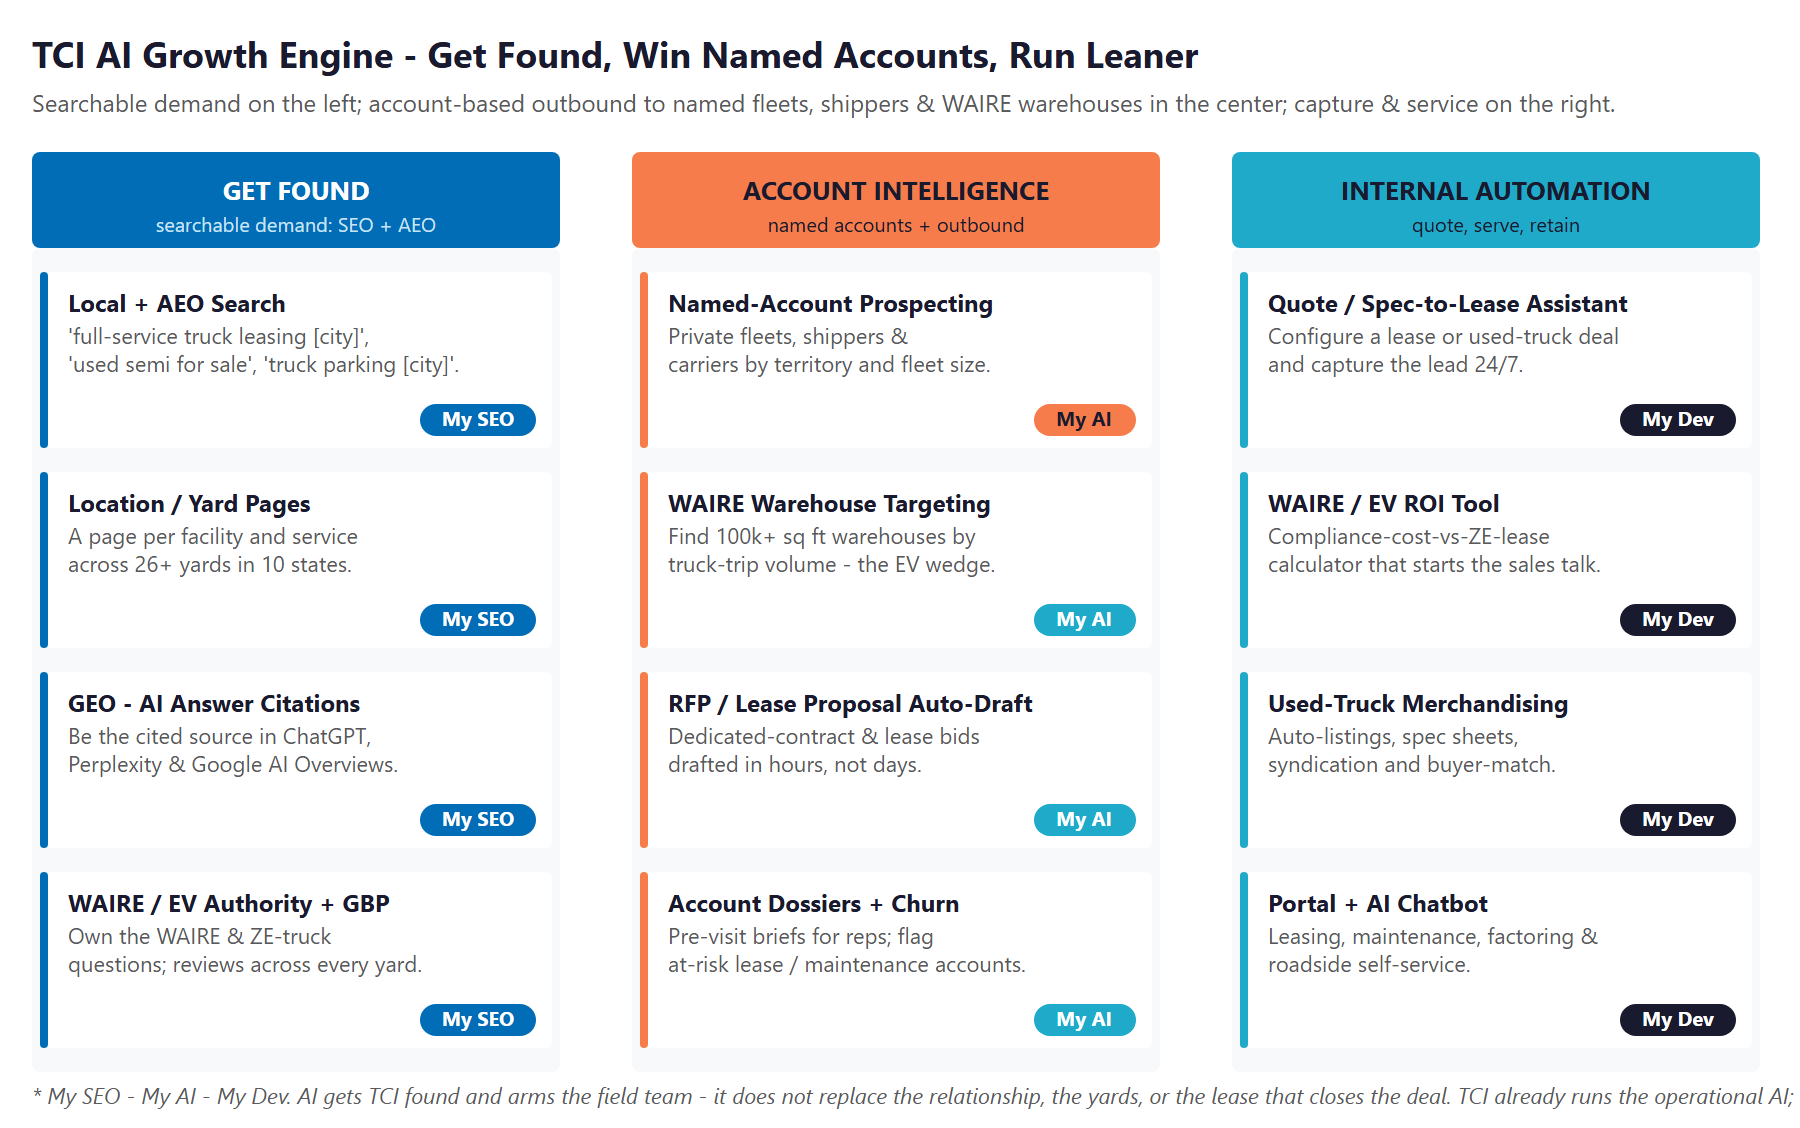
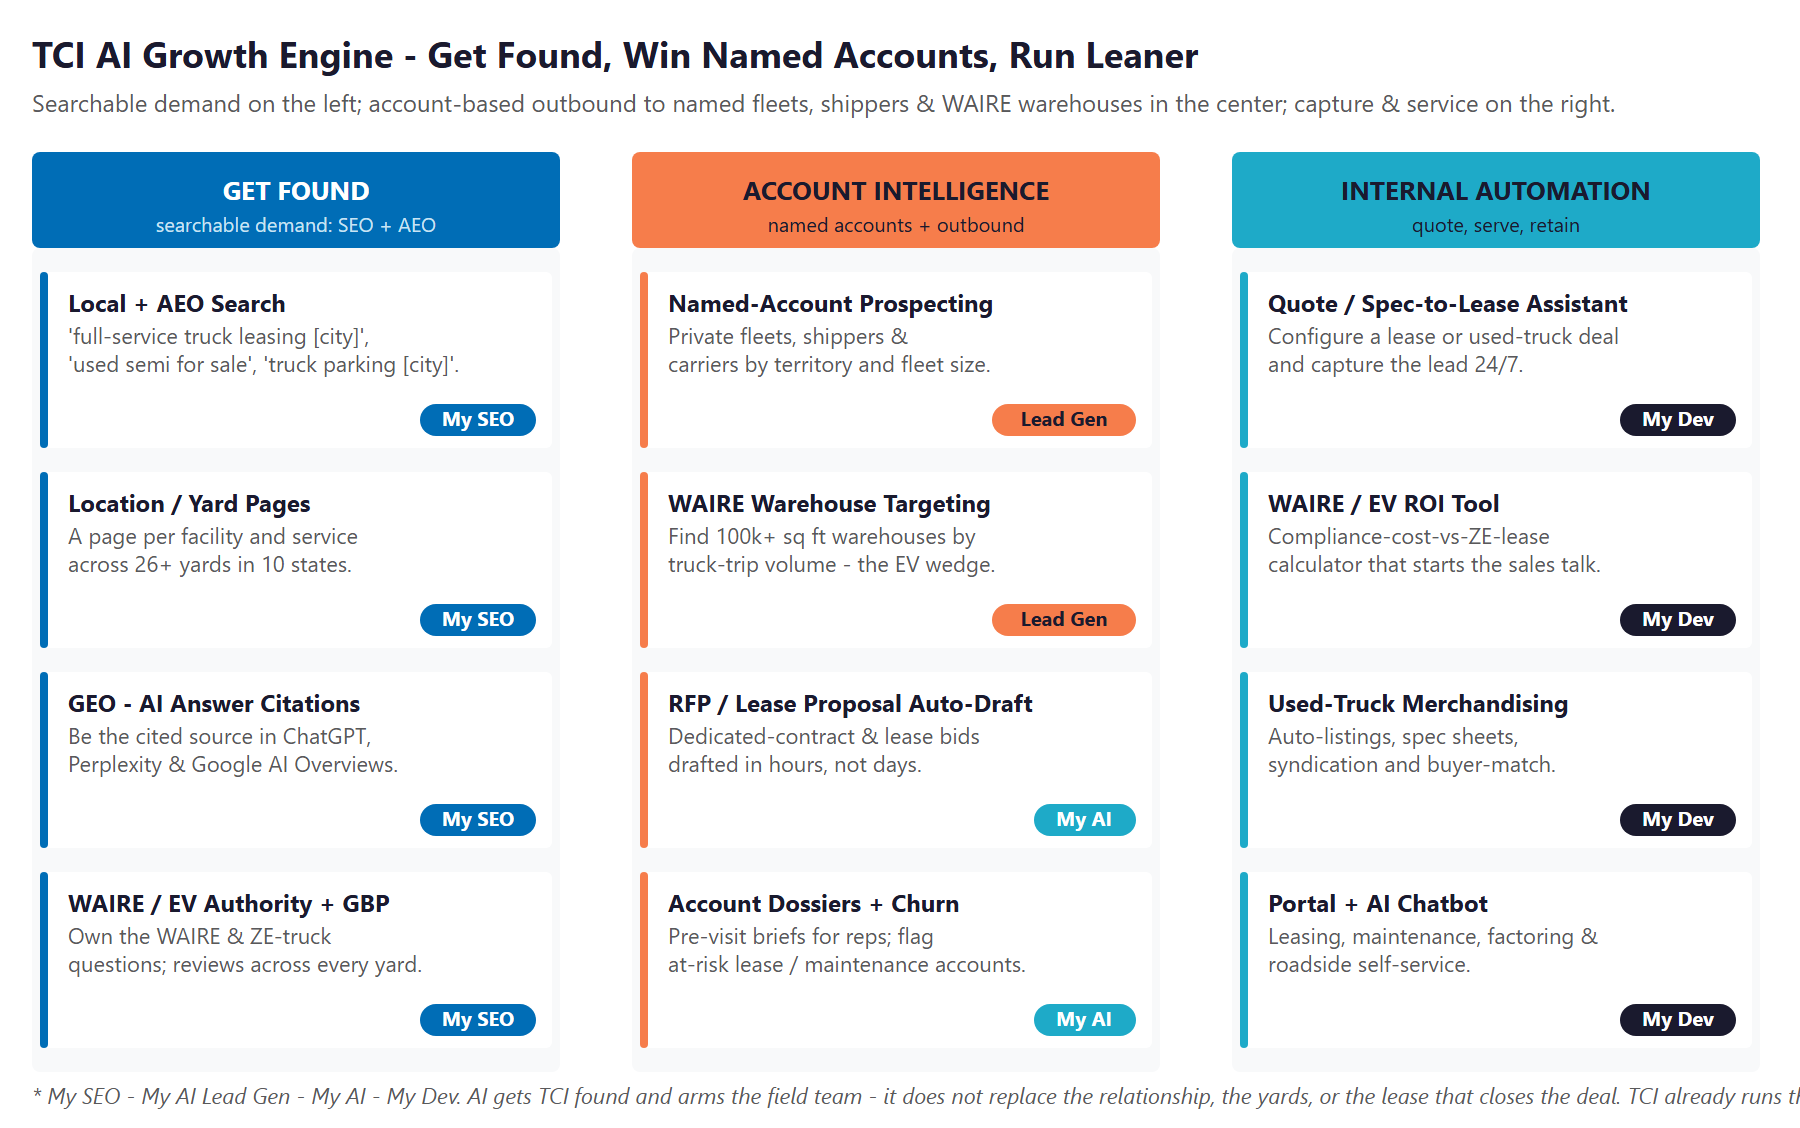
060126

Changed region(s): [[0.1244, 0.9619, 1.0, 0.9929], [0.5289, 0.5275, 0.6533, 0.5895], [0.5289, 0.3413, 0.6222, 0.4034]]

diff --git a/Clients/TCI/build-tci-report.js b/Clients/TCI/build-tci-report.js
@@ -731,7 +731,7 @@ docChildren.push(
   capabilityBox(
     'Proven Build 3 — Account-Based Intelligence & Outbound',
     'Technijian operates a multi-agent AI lead-generation system for a luxury home builder that watches seven layers of public-records signals across ten permit jurisdictions and 60-plus review committees — replacing 15–20 hours a week of manual portal-reading and producing 24 enriched, scored, contact-ready leads in a single 75-minute production run, months before a competitor sees the same opportunity.',
-    'The same public-records-harvesting motion points straight at TCI’s growth: identify WAIRE-obligated warehouses by facility and truck-trip data, fleets at a lease-versus-own inflection, expiring contracts, and new distribution-center permits — each enriched into a scored, dossier-ready target for the rep who owns the relationship.'
+    'The same public-records-harvesting motion points straight at TCI’s growth: identify WAIRE-obligated warehouses by facility and truck-trip data, fleets at a lease-versus-own inflection, expiring contracts, and new distribution-center permits — each enriched into a scored, dossier-ready target for the rep who owns the relationship. It is delivered as My AI Lead Gen, a productized service with published tiers (see Section 11).'
   ),
   spacer(140),
   capabilityBox(
@@ -785,8 +785,8 @@ docChildren.push(
       ['Get Found', 'Local + AEO search', 'Rank for "[service] + [city]" and answer-engine queries', 'Organic leads / mo', 'My SEO'],
       ['Get Found', 'Location / yard pages', 'A page per yard and service across the 10-state footprint', 'Local rankings', 'My SEO'],
       ['Get Found', 'WAIRE / EV authority + GBP', 'WAIRE / EV / leasing content hub + reviews per yard', 'Citations, reviews', 'My SEO'],
-      ['Account Intel', 'Named-account prospecting', 'Private fleets and shippers by territory and fleet size', 'Qualified accounts / mo', 'My AI'],
-      ['Account Intel', 'WAIRE-warehouse targeting', 'Find 100k+ sq ft warehouses by truck-trip volume — the EV wedge', 'Targeted warehouses', 'My AI'],
+      ['Account Intel', 'Named-account prospecting', 'Private fleets and shippers by territory and fleet size', 'Qualified accounts / mo', 'My AI Lead Gen'],
+      ['Account Intel', 'WAIRE-warehouse targeting', 'Find 100k+ sq ft warehouses by truck-trip volume — the EV wedge', 'Targeted warehouses', 'My AI Lead Gen'],
       ['Account Intel', 'RFP / lease-proposal auto-draft', 'Draft dedicated-contract and lease bids in hours', 'Bids submitted, win rate', 'My AI'],
       ['Account Intel', 'Dossiers + churn model', 'Pre-visit briefs for reps; flag at-risk lease/maintenance accounts', 'Meetings, retained accounts', 'My AI'],
       ['Run Leaner', 'Quote / spec-to-lease assistant', 'Configure a lease or used-truck deal and capture the lead 24/7', 'Quotes, capture rate', 'My Dev'],
@@ -813,61 +813,60 @@ docChildren.push(
   spacer(100),
   p('This section is deliberately honest about numbers. Where Technijian has a published price, it is shown as a firm price. Where an investment depends on the scope of a custom build, the document shows the real rate-card basis and states plainly that the figure is set in discovery — it does not invent a total to fill a cell. And the return is framed as the value at stake across TCI’s growth levers, with the dollar figures calibrated once discovery establishes TCI’s real per-deal economics. That is the standard TCI should expect from a partner: no numbers we cannot ground.'),
   spacer(140),
-  subHeader('Phase 1 — Entry Program (Published Pricing)'),
-  p('The program starts with the one part that needs no custom build and carries a firm, published price: the search and answer-engine foundation. It is a 12-month engagement with unlimited monthly service hours.'),
+  subHeader('Phase 1 — Published Services (Firm Monthly Pricing)'),
+  p('Two of the program’s core engines carry firm, published pricing and need no custom build to start: the search and answer-engine foundation (My SEO), and the account-intelligence engine that finds named fleets, shippers, and WAIRE-obligated warehouses (My AI Lead Gen). Both are productized services with published rates.'),
   buildTable(
     [
       { label: 'Service', weight: 3 },
       { label: 'Scope', weight: 4 },
       { label: 'Monthly', weight: 1.5, align: AlignmentType.CENTER },
-      { label: 'Y1 Total', weight: 1.5, align: AlignmentType.CENTER },
+      { label: 'Y1', weight: 1.5, align: AlignmentType.CENTER },
     ],
     [
       ['My SEO — Tier 5 (incl. Tiers 1–4)', 'Custom site + hosting, on/off-page SEO, 5 keyword blogs/mo, and video — the multi-location organic foundation', { text: '$1,500', align: AlignmentType.CENTER }, { text: '$18,000', align: AlignmentType.CENTER }],
       ['+ AI Search Optimization', 'Answer-engine (AEO/GEO) optimization for ChatGPT, Perplexity, and Google AI Overviews', { text: '$200', align: AlignmentType.CENTER }, { text: '$2,400', align: AlignmentType.CENTER }],
       ['+ PR Releases (quarterly)', '300+ live placements; FOX / ABC / NBC affiliate coverage', { text: '$150', align: AlignmentType.CENTER }, { text: '$1,800', align: AlignmentType.CENTER }],
       ['+ Content Syndication', 'Distribution to 250+ websites', { text: '$200', align: AlignmentType.CENTER }, { text: '$2,400', align: AlignmentType.CENTER }],
-      [{ text: 'Entry Program Subtotal (published)', bold: true }, { text: '12-month commitment, unlimited service hours', bold: true }, { text: '$2,050/mo', bold: true, align: AlignmentType.CENTER }, { text: '~$24,600', bold: true, color: CORE_BLUE, align: AlignmentType.CENTER }],
+      [{ text: 'My AI Lead Gen — Professional', bold: true }, '3 vertical pipelines (fleets, shippers, WAIRE warehouses), daily refresh, 2,500 leads/mo (+ $5,000 one-time setup)', { text: '$3,499', bold: true, align: AlignmentType.CENTER }, { text: '~$46,988', bold: true, align: AlignmentType.CENTER }],
+      [{ text: 'PUBLISHED RECURRING PROGRAM', bold: true }, { text: 'Both engines — month-to-month (annual plans save 17% + waive setup → ≈ $59,590)', bold: true }, { text: '$5,549/mo', bold: true, align: AlignmentType.CENTER }, { text: '~$71,588', bold: true, color: CORE_BLUE, align: AlignmentType.CENTER }],
     ],
   ),
   spacer(60),
-  p('Optional at entry: Digital Marketing (paid-ads) management runs $200/mo (Standard tier) plus a $100 one-time setup per brand, with media spend billed separately. An Executive AI Workshop and AI Readiness Assessment is a fixed-scope engagement; Technijian strategic-planning engagements run $8,500–$25,000 on the 2026 rate card, with the exact scope and price confirmed in discovery.', { italics: true, size: 18 }),
+  p('My AI Lead Gen tiers (published): Starter $1,499/mo (1 vertical, 500 leads/mo, $2,500 setup) · Professional $3,499/mo (“Most Popular” — the multi-vertical fit for TCI) · Enterprise $6,999/mo (unlimited custom sources, 10K+ leads, $15,000 setup). A 2-week paid pilot ($995, credited to month one) de-risks the start; annual plans save 17% and waive setup. Third-party data/API costs (e.g., ATTOM, Apollo, Claude) pass through at cost. Optional: Digital Marketing (paid-ads) management at $200/mo (Standard) + $100 setup per brand, media spend separate.', { italics: true, size: 18 }),
   spacer(160),
-  subHeader('Phase 2 — Expansion (Scoped in Discovery)'),
-  p('The custom builds and account-intelligence work are where the engine is built. Their cost depends entirely on scope — how many yards, how many integrations, how deep the tooling — so rather than print an invented total, the table shows the real rate-card basis and the work to be scoped into a fixed-price Statement of Work after discovery.'),
+  subHeader('Phase 2 — Custom Build & Advisory (Scoped in Discovery)'),
+  p('The custom build and ongoing advisory are scoped to TCI’s actual needs — how many yards, how many integrations, how deep the tooling — so rather than print an invented total, the table shows the real 2026 US-led rate basis and the work to be scoped into a fixed-price Statement of Work. The advisor and workshop figures are planning estimates, confirmed at discovery.'),
   buildTable(
     [
       { label: 'Service', weight: 2.7 },
-      { label: 'Scope', weight: 3.6 },
-      { label: 'Basis (2026 Rate Card)', weight: 2.4 },
-      { label: 'Investment', weight: 2 },
+      { label: 'Scope', weight: 3.7 },
+      { label: 'Basis (2026 US-Led Rate)', weight: 2.5 },
+      { label: 'Investment', weight: 1.9 },
     ],
     [
-      ['My Dev — Custom AI & app build', 'Quote/spec-to-lease assistant, WAIRE/EV ROI tool, customer portal + AI chatbot, used-truck merchandising', 'AI eng $185–$275/hr; full-stack $145–$210/hr', { text: 'Scoped in discovery → fixed-scope SOW', bold: true, color: CORE_ORANGE }],
-      ['My AI — Account intelligence & outbound', 'Named fleet/shipper + WAIRE-warehouse targeting, dossiers, RFP/lease-proposal automation', 'My AI engagement', { text: 'Scoped in discovery', bold: true, color: CORE_ORANGE }],
-      ['My AI — Fractional AI Advisor', 'Program leadership, model governance, implementation QA', 'Retainer $1,500–$3,500/mo', { text: 'Tier set at discovery', bold: true, color: CORE_ORANGE }],
+      ['My Dev — Custom AI & app build', 'Quote/spec-to-lease assistant, WAIRE/EV ROI tool, customer portal + AI chatbot, used-truck merchandising', 'US development $150/hr ($125/hr on a contract cycle)', { text: 'Scoped → fixed-scope SOW', bold: true, color: CORE_ORANGE }],
+      ['My AI — Fractional AI Advisor', 'Program leadership, model governance, implementation QA', 'Monthly retainer (estimate ~$2,000/mo)', { text: 'Confirmed at discovery', bold: true, color: CORE_ORANGE }],
+      ['My AI — Executive Workshop + AI Readiness', 'Leadership alignment and roadmap (one-time)', 'Fixed-scope (estimate ~$5,000)', { text: 'Confirmed at discovery', bold: true, color: CORE_ORANGE }],
       ['My Dev — Managed App Services', 'Hosting, monitoring, and optimization of the build', 'Monthly managed service', { text: 'Scoped once build is sized', bold: true, color: CORE_ORANGE }],
     ],
   ),
   spacer(160),
-  subHeader('Transparent US Labor Rates (2026)'),
-  p('So project and ad-hoc work carries no surprises, here are the blended, US-led rates the expansion draws from. These are real rate-card figures; a fixed-scope build converts them into a single agreed price.'),
+  subHeader('Transparent US-Led Rates (2026)'),
+  p('So project and ad-hoc work carries no surprises, here are the actual 2026 US-led rates the custom build and advisory draw from. A fixed-scope build converts these into a single agreed price.'),
   buildTable(
     [
-      { label: 'Work', weight: 4 },
-      { label: 'Unit', weight: 2, align: AlignmentType.CENTER },
-      { label: 'US Rate (2026)', weight: 2, align: AlignmentType.CENTER },
+      { label: 'Role', weight: 3.4 },
+      { label: 'Normal', weight: 1.6, align: AlignmentType.CENTER },
+      { label: 'After-Hours', weight: 1.6, align: AlignmentType.CENTER },
+      { label: 'Contracted (Cycle)', weight: 2, align: AlignmentType.CENTER },
     ],
     [
-      ['Custom AI agent development', { text: 'per hour', align: AlignmentType.CENTER }, { text: '$185–$275', align: AlignmentType.CENTER }],
-      ['Full-stack application development', { text: 'per hour', align: AlignmentType.CENTER }, { text: '$145–$210', align: AlignmentType.CENTER }],
-      ['Planned project / engineering work', { text: 'per hour', align: AlignmentType.CENTER }, { text: '$145–$195', align: AlignmentType.CENTER }],
-      ['Strategic AI / planning engagement', { text: 'per engagement', align: AlignmentType.CENTER }, { text: '$8,500–$25,000', align: AlignmentType.CENTER }],
-      ['Fractional AI Advisor', { text: 'per month', align: AlignmentType.CENTER }, { text: '$1,500–$3,500', align: AlignmentType.CENTER }],
+      ['US Engineering / Development', { text: '$150/hr', align: AlignmentType.CENTER }, { text: '$250/hr', align: AlignmentType.CENTER }, { text: '$125/hr', align: AlignmentType.CENTER }],
+      ['CTO / vCIO Advisory', { text: '$250/hr', align: AlignmentType.CENTER }, { text: '$350/hr', align: AlignmentType.CENTER }, { text: '$225/hr', align: AlignmentType.CENTER }],
     ],
   ),
   spacer(60),
-  p('Rates are blended US-led pricing. A 3% annual escalator and Net 30 terms apply, disclosed up front in any Statement of Work.', { italics: true, size: 18 }),
+  p('Blended US-led rates; “Contracted” applies under a 3-, 6-, or 12-month cycle commitment. On-site work has a 2-hour minimum and no trip charges; emergency/critical work bills at the after-hours rate with a 1-hour minimum. A 3% annual escalator and Net 30 terms apply, disclosed up front in any Statement of Work.', { italics: true, size: 18 }),
   spacer(160),
   subHeader('The Return: Value at Stake'),
   p('Because TCI’s internal numbers (average lease value, close rate, used-truck margin, WAIRE pipeline) were not available for this draft, this blueprint does not print an ROI multiple it cannot stand behind. Instead it names the levers the program moves and the unit each is measured in. The dollar value of each is set in discovery and built into a calibrated ROI model.'),
@@ -889,9 +888,9 @@ docChildren.push(
   calloutBox(
     'How to Read the Money',
     [
-      'The entry program is a known, published investment of about $24,600 in Year 1 — the search and answer-engine foundation, with no large build required to start.',
-      'The custom build and account-intelligence work are scoped in discovery and delivered as a fixed-price Statement of Work, priced from the published rate card above — never an invented number.',
-      'Within five business days of a 30-minute discovery call (Section 14), Technijian returns a calibrated ROI model and a fixed-scope SOW built on TCI’s real per-deal economics. That is the right sequence: prove the foundation, then size the engine.',
+      'The published recurring program — the search foundation plus account intelligence — is a known investment of about $5,549/mo (≈ $71,588 in Year 1 month-to-month, or ≈ $59,590 on annual plans, which waive setup). No large custom build is required to start.',
+      'The custom build and advisory are scoped in discovery into a fixed-price Statement of Work, priced from the published 2026 US-led rates above — never an invented number.',
+      'Within five business days of a 30-minute discovery call (Section 14), Technijian returns a calibrated ROI model and a fixed-scope SOW built on TCI’s real per-deal economics. That is the right sequence: prove the published engines, then size the build.',
     ],
     CORE_BLUE
   ),
@@ -1042,9 +1041,9 @@ docChildren.push(
     [{ label: 'Service', weight: 2 }, { label: 'What It Delivers for TCI', weight: 5 }],
     [
       ['My SEO', 'Local and answer-engine SEO — ranking in Google and getting cited by AI assistants — plus per-yard location pages and the WAIRE / EV content hub that make TCI findable across its markets'],
-      ['My AI', 'AI strategy and builds — account intelligence, WAIRE-warehouse targeting, RFP and lease-proposal automation, and churn intelligence, with governance and security throughout'],
+      ['My AI Lead Gen', 'Account intelligence and outbound — named fleets and shippers plus WAIRE-obligated warehouses, harvested from public data, enriched, scored, and dossier-ready for the sales team'],
+      ['My AI', 'AI strategy and builds — RFP and lease-proposal automation, churn intelligence, and the Fractional AI Advisor, with governance and security throughout'],
       ['My Dev', 'Custom, AI-native builds — the quote/spec-to-lease assistant, WAIRE/EV ROI tool, used-truck merchandising, and the AI-assisted customer portal'],
-      ['My IT & Security', 'The managed IT, cybersecurity, and cloud foundation that runs underneath the growth engine — available as TCI’s needs grow'],
     ],
   ),
   spacer(200),
@@ -1070,7 +1069,7 @@ docChildren.push(
   p('3. Competitors — Ryder System (ryder.com, incl. WAIRE guidance), Penske Truck Leasing, Idealease, Enterprise Fleet Management, NationaLease; digital freight brokers (C.H. Robinson, Uber Freight, DAT); EV / charging vendors (Xos, Orange EV)', { size: 20 }),
   p('4. Regulatory — South Coast AQMD Rule 2305 / WAIRE Program (aqmd.gov FAQs; NV5, Lazer Logistics, Xos, Orange EV explainers); CARB Advanced Clean Fleets and Advanced Clean Trucks; CARB Clean Truck Check; US DOT / FMCSA', { size: 20 }),
   p('5. Industry — ACT Research (2026 used-truck outlook; Class 8 retail values); American Trucking Associations driver-shortage estimates; 2025–26 freight-market and carrier-exit analyses; US truck leasing & rental market size and CAGR; freight-factoring rate benchmarks', { size: 20 }),
-  p('6. Technijian pricing — Services/My SEO published tiers and add-ons; technijian-pricing 2026 rate card (custom AI development $185–$275/hr; full-stack $145–$210/hr; project work $145–$195/hr; strategic engagement $8,500–$25,000; Fractional Advisor / vCIO $1,500–$3,500/mo); Services/My AI Proven Results', { size: 20 }),
+  p('6. Technijian pricing — published service collateral: My SEO tiers + add-ons (Services/My SEO) and My AI Lead Gen tiers (Starter $1,499 / Professional $3,499 / Enterprise $6,999 per month + setup; Services/My AI Lead Gen); 2026 US-led labor rates (US Engineering/Development $150/$250/$125 per hour normal/after-hours/contracted; CTO/vCIO advisory $250/$350/$225); Services/My AI Proven Results. My Dev custom builds and the Fractional AI Advisor/Workshop are scoped at discovery (advisor/workshop figures shown are planning estimates).', { size: 20 }),
 );
 
 // =====================================================================

diff --git a/Clients/TCI/build-tci-summary.js b/Clients/TCI/build-tci-summary.js
@@ -182,7 +182,7 @@ docChildren.push(
   spacer(120),
   calloutBox('Get found', 'Local and answer-engine search across 26+ yards: a page per facility and service, and authority content that owns the WAIRE, EV-truck, leasing, and used-truck questions buyers ask in Google and AI answers.', TEAL),
   spacer(120),
-  calloutBox('Win named accounts', 'The same public-records account-intelligence motion already in production for a Technijian client — 24 contact-ready leads in a single 75-minute run — pointed at WAIRE-obligated warehouses and named fleets, with RFP and lease-proposal automation behind it.', CORE_ORANGE),
+  calloutBox('Win named accounts', 'The same public-records account-intelligence motion already in production for a Technijian client — 24 contact-ready leads in a single 75-minute run — pointed at WAIRE-obligated warehouses and named fleets. Delivered as My AI Lead Gen (published tiers), with RFP and lease-proposal automation behind it.', CORE_ORANGE),
   spacer(120),
   calloutBox('Run leaner', 'A quote / spec-to-lease assistant, a WAIRE/EV ROI tool that turns the regulation into a sales conversation, used-truck merchandising, and an AI-assisted portal across leasing, maintenance, factoring, and roadside.', CORE_BLUE),
 );
@@ -191,29 +191,31 @@ docChildren.push(
 docChildren.push(
   ...sectionHeader('The Program', CORE_BLUE, '03'),
   spacer(120),
-  p('The program is built land-and-expand: a small, published entry that proves the lift, then an expansion scoped at discovery once it does. We are deliberate about money — only the published price is stated as firm; the build is priced from the rate card and scoped into a fixed-price Statement of Work, never an invented number.'),
+  p('The program is built land-and-expand on two published engines, then a custom build scoped at discovery. We are deliberate about money — only published prices are stated as firm (My SEO and My AI Lead Gen); the build is priced from the real 2026 US-led rates and scoped into a fixed-price Statement of Work, never an invented number.'),
   spacer(80),
   buildTable(
     [
-      { label: 'Entry Program (published)', weight: 3.2 },
-      { label: 'Scope', weight: 4.2 },
-      { label: 'Y1', weight: 1.6, align: AlignmentType.RIGHT },
+      { label: 'Published Recurring Program', weight: 3.2 },
+      { label: 'Scope', weight: 4.0 },
+      { label: 'Monthly', weight: 1.4, align: AlignmentType.RIGHT },
+      { label: 'Y1', weight: 1.4, align: AlignmentType.RIGHT },
     ],
     [
-      ['My SEO — Tier 5 + AEO / PR / Syndication', 'Multi-location local + answer-engine search foundation; 12-mo, unlimited hours', { text: '~$24,600', align: AlignmentType.RIGHT }],
-      [{ text: 'ENTRY PROGRAM (Y1)', bold: true }, { text: 'Prove the search + capture lift, no large build to start', bold: true }, { text: '$2,050/mo', bold: true, color: CORE_BLUE, align: AlignmentType.RIGHT }],
+      ['My SEO — Tier 5 + AEO / PR / Syndication', 'Multi-location local + answer-engine search foundation; 12-mo, unlimited hours', { text: '$2,050', align: AlignmentType.RIGHT }, { text: '~$24,600', align: AlignmentType.RIGHT }],
+      ['My AI Lead Gen — Professional', '3 vertical pipelines (fleets, shippers, WAIRE warehouses), 2,500 leads/mo (+$5,000 setup)', { text: '$3,499', align: AlignmentType.RIGHT }, { text: '~$46,988', align: AlignmentType.RIGHT }],
+      [{ text: 'PUBLISHED RECURRING (Y1)', bold: true }, { text: 'Annual plans save 17% + waive setup (≈ $59,590)', bold: true }, { text: '$5,549', bold: true, color: CORE_BLUE, align: AlignmentType.RIGHT }, { text: '~$71,588', bold: true, color: CORE_BLUE, align: AlignmentType.RIGHT }],
     ],
   ),
   spacer(120),
   buildTable(
     [
-      { label: 'Expansion (scoped in discovery)', weight: 3.4 },
-      { label: 'Basis — 2026 rate card', weight: 3.6 },
+      { label: 'Custom Build & Advisory (scoped in discovery)', weight: 3.6 },
+      { label: 'Basis — 2026 US-led rate', weight: 3.4 },
       { label: 'Investment', weight: 2.4, align: AlignmentType.RIGHT },
     ],
     [
-      ['Custom AI & app build (quote-to-lease, WAIRE/EV ROI tool, portal, used-truck)', 'AI eng $185–$275/hr; full-stack $145–$210/hr', { text: 'Fixed-scope SOW', color: CORE_ORANGE, align: AlignmentType.RIGHT }],
-      ['Account intelligence & outbound + Fractional AI Advisor', 'My AI engagement; advisor $1,500–$3,500/mo', { text: 'Set at discovery', color: CORE_ORANGE, align: AlignmentType.RIGHT }],
+      ['Custom AI & app build (quote-to-lease, WAIRE/EV ROI tool, portal, used-truck)', 'US development $150/hr ($125/hr contracted)', { text: 'Fixed-scope SOW', color: CORE_ORANGE, align: AlignmentType.RIGHT }],
+      ['Fractional AI Advisor + Executive Workshop', 'Estimates: ~$2,000/mo + ~$5,000 one-time', { text: 'Confirmed at discovery', color: CORE_ORANGE, align: AlignmentType.RIGHT }],
     ],
   ),
   spacer(120),

diff --git a/Clients/TCI/build-tci-brief.py b/Clients/TCI/build-tci-brief.py
@@ -72,13 +72,14 @@ ul {{ margin:2px 0 0 15px; }} li {{ margin-bottom:2px; }}
   </div>
 
   <div class="sec t">
-    <h2>The program &mdash; land and expand, priced honestly</h2>
+    <h2>The program &mdash; two published engines, then a scoped build</h2>
     <table>
-      <tr><th>Entry (published — the easy yes)</th><th>Scope</th><th class="r">Y1</th></tr>
-      <tr><td><b>My SEO — Tier 5 + AEO / PR / Syndication</b></td><td>Multi-location local + answer-engine search foundation; 12-month, unlimited service hours</td><td class="r">~$24,600</td></tr>
-      <tr><td><b>ENTRY PROGRAM (Y1)</b></td><td><b>Prove the search + capture lift, no large build to start</b></td><td class="r"><b>$2,050/mo</b></td></tr>
+      <tr><th>Published recurring (firm pricing)</th><th>Scope</th><th class="r">Monthly</th><th class="r">Y1</th></tr>
+      <tr><td><b>My SEO — Tier 5 + AEO / PR / Syndication</b></td><td>Multi-location local + answer-engine search foundation; 12-mo, unlimited hours</td><td class="r">$2,050</td><td class="r">~$24,600</td></tr>
+      <tr><td><b>My AI Lead Gen — Professional</b></td><td>3 vertical pipelines (fleets, shippers, WAIRE warehouses), 2,500 leads/mo (+$5,000 setup)</td><td class="r">$3,499</td><td class="r">~$46,988</td></tr>
+      <tr><td><b>PUBLISHED RECURRING</b></td><td><b>Both engines &middot; annual plans save 17% + waive setup (&asymp;$59,590)</b></td><td class="r"><b>$5,549</b></td><td class="r"><b>~$71,588</b></td></tr>
     </table>
-    <p style="margin-top:5px;">The expansion — the custom build (quote-to-lease assistant, WAIRE/EV ROI tool, AI-assisted portal, used-truck merchandising), account intelligence, and a Fractional AI Advisor — is priced from the published 2026 rate card (AI engineering $185&ndash;$275/hr; advisor $1,500&ndash;$3,500/mo) and scoped into a fixed-price Statement of Work at discovery. We don't quote numbers we can't ground: the calibrated ROI model comes back within five business days of a discovery call, built on TCI's real per-deal economics.</p>
+    <p style="margin-top:5px;">The custom build — quote-to-lease assistant, WAIRE/EV ROI tool, AI-assisted portal, used-truck merchandising — plus a Fractional AI Advisor (est. ~$2,000/mo) and Executive Workshop (est. ~$5,000) are priced from the real 2026 US-led rates (development <b>$150/hr</b>, <b>$125/hr</b> on a contract cycle) and scoped into a fixed-price Statement of Work at discovery. We don't quote numbers we can't ground: the calibrated ROI model comes back within five business days of a discovery call, built on TCI's real per-deal economics.</p>
   </div>
 
   <div class="ask">

diff --git a/Clients/TCI/generate-diagrams.py b/Clients/TCI/generate-diagrams.py
@@ -308,9 +308,9 @@ def build_arch_svg():
     )
     core = (
         arch_card(320, 136, 256, 88, ORANGE, "Named-Account Prospecting",
-                  "Private fleets, shippers & carriers by territory and fleet size.", "My AI", ORANGE)
+                  "Private fleets, shippers & carriers by territory and fleet size.", "Lead Gen", ORANGE)
         + arch_card(320, 236, 256, 88, ORANGE, "WAIRE Warehouse Targeting",
-                    "Find 100k+ sq ft warehouses by truck-trip volume - the EV wedge.", "My AI", TEAL)
+                    "Find 100k+ sq ft warehouses by truck-trip volume - the EV wedge.", "Lead Gen", ORANGE)
         + arch_card(320, 336, 256, 88, ORANGE, "RFP / Lease Proposal Auto-Draft",
                     "Dedicated-contract & lease bids drafted in hours, not days.", "My AI", TEAL)
         + arch_card(320, 436, 256, 88, ORANGE, "Account Dossiers + Churn",
@@ -330,7 +330,7 @@ def build_arch_svg():
   <text x="16" y="34" font-family="Segoe UI,Arial" font-size="18" font-weight="700" fill="{DARK}">TCI AI Growth Engine - Get Found, Win Named Accounts, Run Leaner</text>
   <text x="16" y="56" font-family="Segoe UI,Arial" font-size="12" fill="{GREY}">Searchable demand on the left; account-based outbound to named fleets, shippers &amp; WAIRE warehouses in the center; capture &amp; service on the right.</text>"""
     note = f"""
-  <text x="16" y="552" font-family="Segoe UI,Arial" font-size="11" fill="{GREY}" font-style="italic">* My SEO - My AI - My Dev. AI gets TCI found and arms the field team - it does not replace the relationship, the yards, or the lease that closes the deal. TCI already runs the operational AI; this adds the commercial layer.</text>"""
+  <text x="16" y="552" font-family="Segoe UI,Arial" font-size="11" fill="{GREY}" font-style="italic">* My SEO - My AI Lead Gen - My AI - My Dev. AI gets TCI found and arms the field team - it does not replace the relationship, the yards, or the lease that closes the deal. TCI already runs the operational AI; this adds the commercial layer.</text>"""
     return f"""<svg xmlns="http://www.w3.org/2000/svg" viewBox="0 0 900 560" width="900" height="560" role="img">
   {title}{headers}{bg}{inbound}{core}{outbound}{note}
 </svg>"""

diff --git a/Clients/TCI/_research.md b/Clients/TCI/_research.md
@@ -29,12 +29,17 @@ This distinction is a trust signal — it shows we actually looked.
 ### D. TRUTHFUL PRICING & ROI — explicit client instruction (Ravi, 2026-06-01). NON-NEGOTIABLE.
 > "make sure you are truthful on prices and roi and dont make things up" + "If you dont have a price then say we will do discovery and then create proper pricing."
 
-Rules for this deliverable (more conservative than SCF/CBI, which printed invented totals — do NOT repeat that here):
-1. **Only My SEO has published prices** (`Services/My SEO/assets/my-seo-content.txt`): Tier 1 $500 → Tier 5 $1,500/mo (cumulative, 12-mo commitment, unlimited hours); add-ons AI Search Optimization $200/mo, PR Releases $150/mo, Content Syndication $200/mo; DMA (paid-ads mgmt) Essential/Standard/Aggressive $100/$200/$300/mo + $100/brand setup (media spend not included). These are the ONLY firm monthly numbers in the document.
-2. **Everything else = rate-card RANGES** from the `technijian-pricing` catalog (real), with the **project total scoped in discovery → proper fixed-scope pricing**. Real ranges to cite: Custom AI agent dev (AI-CUSTOM) **$185–$275/hr**; Full-stack dev (DEV-FULLSTACK) **$145–$210/hr**; Project IT work (MIT-PROJECT) **$145–$195/hr**; Strategic AI/IT planning engagement (CON-STRAT) **$8,500–$25,000**; vCIO / Fractional Advisor retainer (MIT-VCIO) **$1,500–$3,500/mo**.
-3. **Do NOT print** the "My AI Lead Gen $1,499 / $3,499 / $6,999" tiers — they are NOT in the authoritative `technijian-pricing` catalog. Account intelligence / outbound is delivered via My AI and is **scoped in discovery**.
-4. **No invented project totals, no fabricated ROI ratio.** ROI is a **value-at-stake** model: name each growth lever, its unit of measure, and "set at discovery" for the dollar value. The ONE firm number is the My SEO entry (~$24,600/yr at Tier 5 + 3 add-ons). State plainly that the full ROI model + fixed-scope SOW are delivered after a discovery call calibrates per-deal economics and build scope.
-5. Single **blended US-led rate**; never expose India cost basis. 3% annual escalator + Net 30 disclosed. "Investment" not "cost." Per `technijian-pricing` R1/R9/R11 and `reference_technijian_labor_rates`.
+> **⚠️ CORRECTED 2026-06-01 (Ravi: "your numbers are not factual… your rates are all wrong").** First pass wrongly priced from the `technijian-pricing` skill's generic DEFAULT-rate catalog and wrongly treated My AI Lead Gen as unpriced. REAL prices live in each service's own One-Pager/Brochure collateral + the labor-rate card. Corrected rules below; see [[feedback_truthful_blueprint_pricing]].
+
+Rules for this deliverable:
+1. **Published productized prices (FIRM) — from each service's collateral:**
+   - **My SEO** (`Services/My SEO/assets/...`): Tier 1 $500 → Tier 5 $1,500/mo (cumulative, 12-mo, unlimited hrs); add-ons AI Search Opt $200, PR $150, Content Syndication $200; DMA $100/$200/$300 + $100 setup.
+   - **My AI Lead Gen** (`Services/My AI Lead Gen/assets/...`): **Starter $1,499 / Professional $3,499 ("Most Popular") / Enterprise $6,999 per month**; setup $2,500/$5,000/$15,000 (waived annual); annual −17%; 2-week pilot $995 (credited); overage $3/$2/$1; 3rd-party API pass-through. **Professional = the TCI fit** (3 verticals: fleets, shippers, WAIRE warehouses). USE THESE — they are published.
+   - → Published recurring program = My SEO $2,050/mo + Lead Gen Pro $3,499/mo = **$5,549/mo (~$71,588 Y1; ~$59,590 annual)**.
+2. **Custom builds (My Dev) + AI strategy (My AI)** have NO published product price → price from real **US-led labor rates** ([[reference_technijian_labor_rates]]): US Eng/Dev **$150/hr** normal · **$250** after-hours · **$125** contracted; CTO/vCIO **$250/$350/$225**. Total **scoped in discovery → fixed-scope SOW**. NEVER show India rates.
+3. **My AI Fractional Advisor ~$2,000/mo + Executive Workshop ~$5,000** = biz-dev skill defaults → label **estimates, confirmed at discovery**.
+4. **No invented project totals, no fabricated ROI ratio.** ROI = **value-at-stake** (lever + unit + "set at discovery"). Full ROI model + fixed-scope SOW delivered after discovery.
+5. Single **blended US-led rate**; never expose India basis. 3% annual escalator + Net 30. "Investment" not "cost."
 
 ### E. Numbers discipline (client-facing accuracy).
 - **Fleet / headcount discrepancy:** the public homepage still says **"2,500+ trucks, tractors, and trailers"** and **"1,000+ professionals,"** while TCI's own **2025 Year-in-Review / "Family Legacy"** blog says **"3,800+ units"** and **"1,500+ professionals."** Lead with the company's most-recent self-reported figures (**3,800+ / 1,500+**), attribute to "TCI's 2025 Year in Review," and list the stale homepage stats BOTH as a Quick Win (refresh them) AND a discovery confirm. Do not silently pick one.